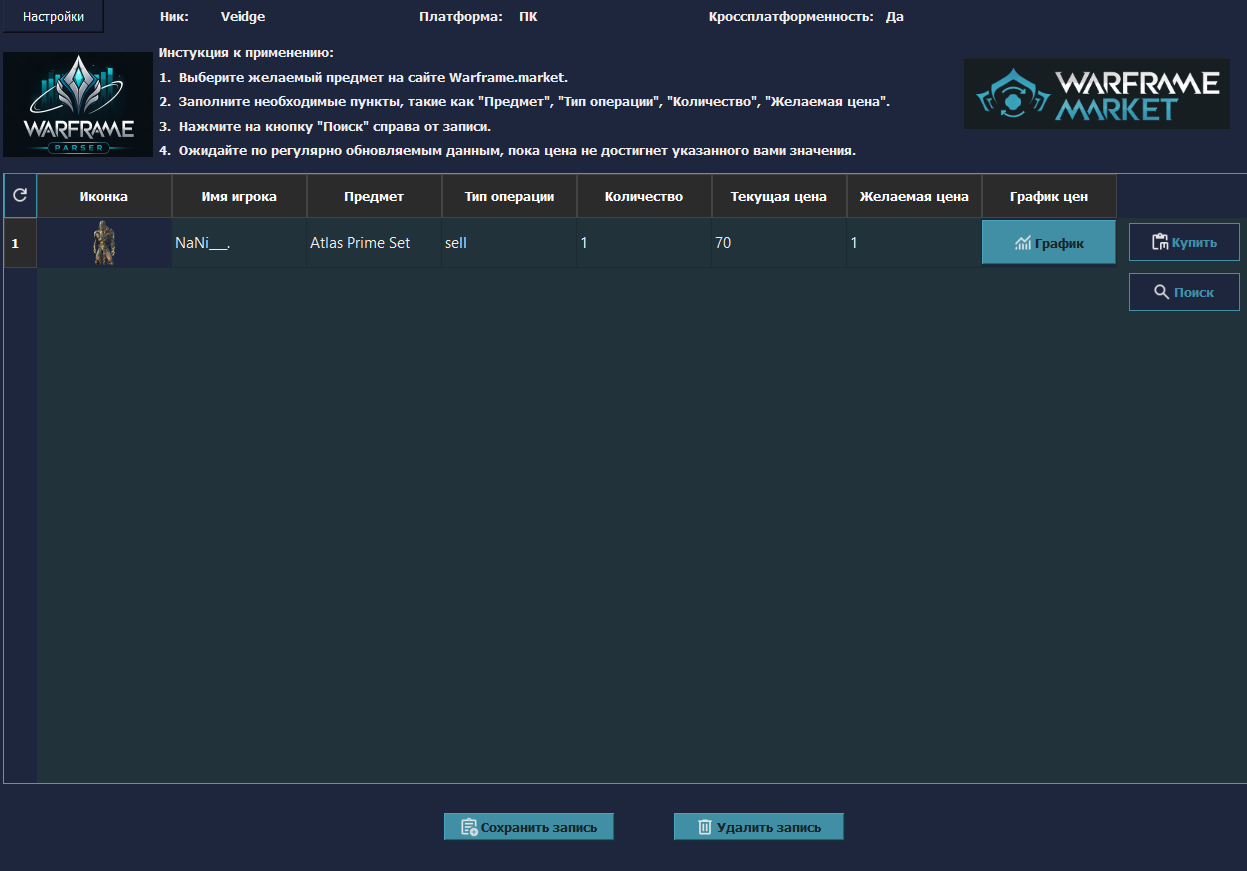
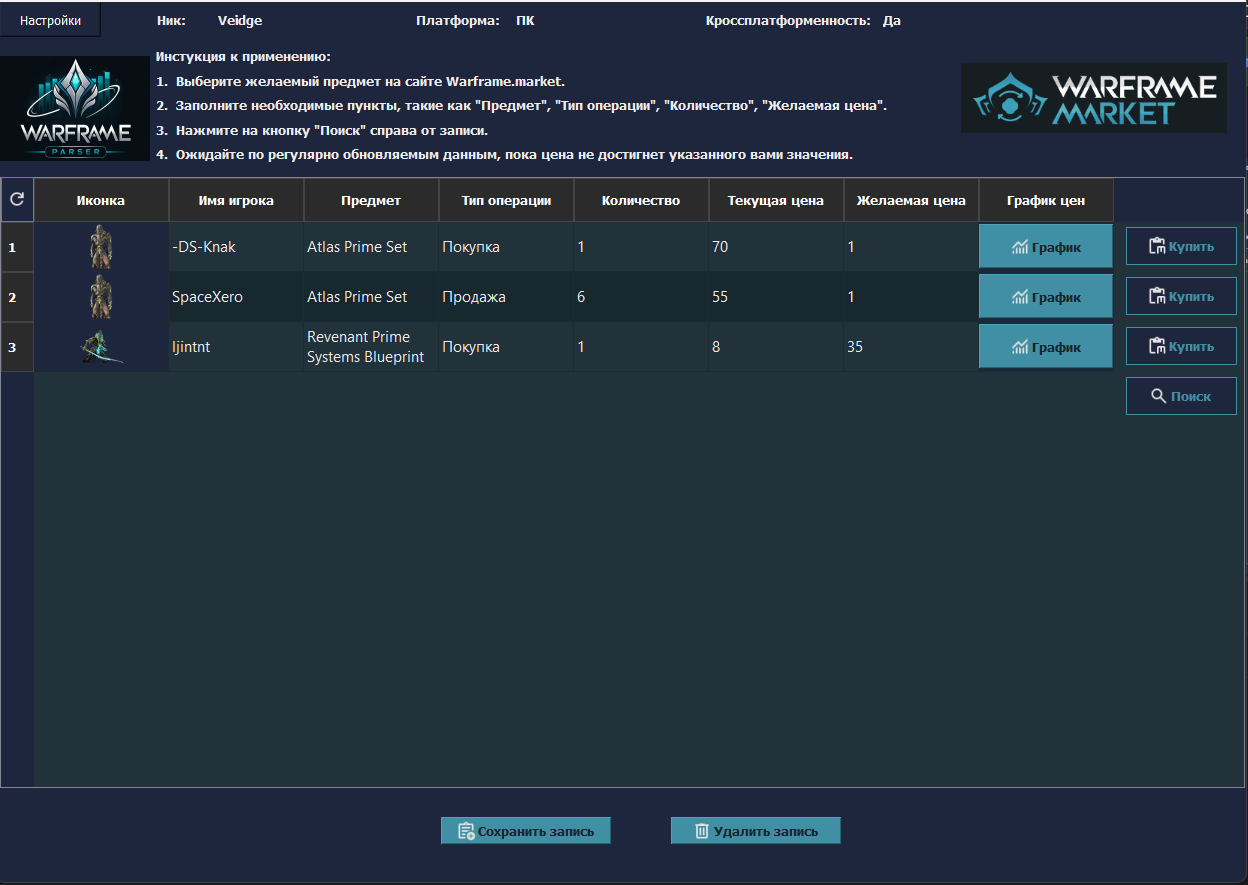
docs: update info from latest patches

diff --git a/README.md b/README.md
@@ -63,6 +63,8 @@ pip install -r requirements.txt
 
 ![Главное окно приложения](/screenshots/main_window.png)
 
+![Окно настроек приложения](/screenshots/settings_window.png)
+
 ## Тестирование
 
 Запуск всех тестов:
